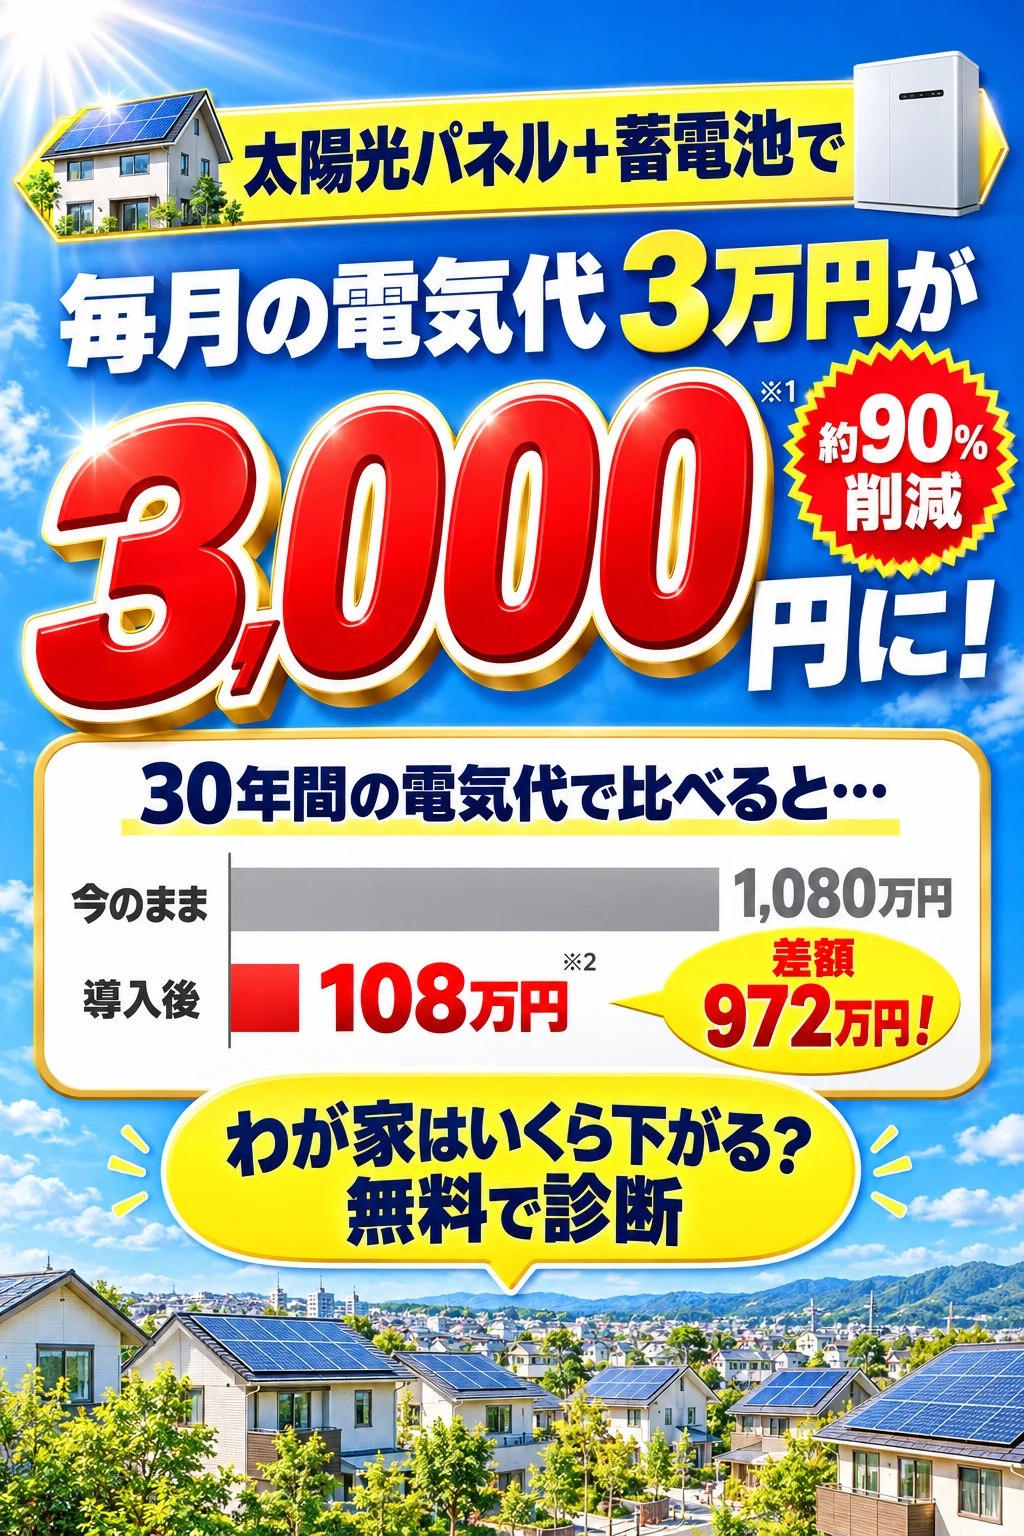
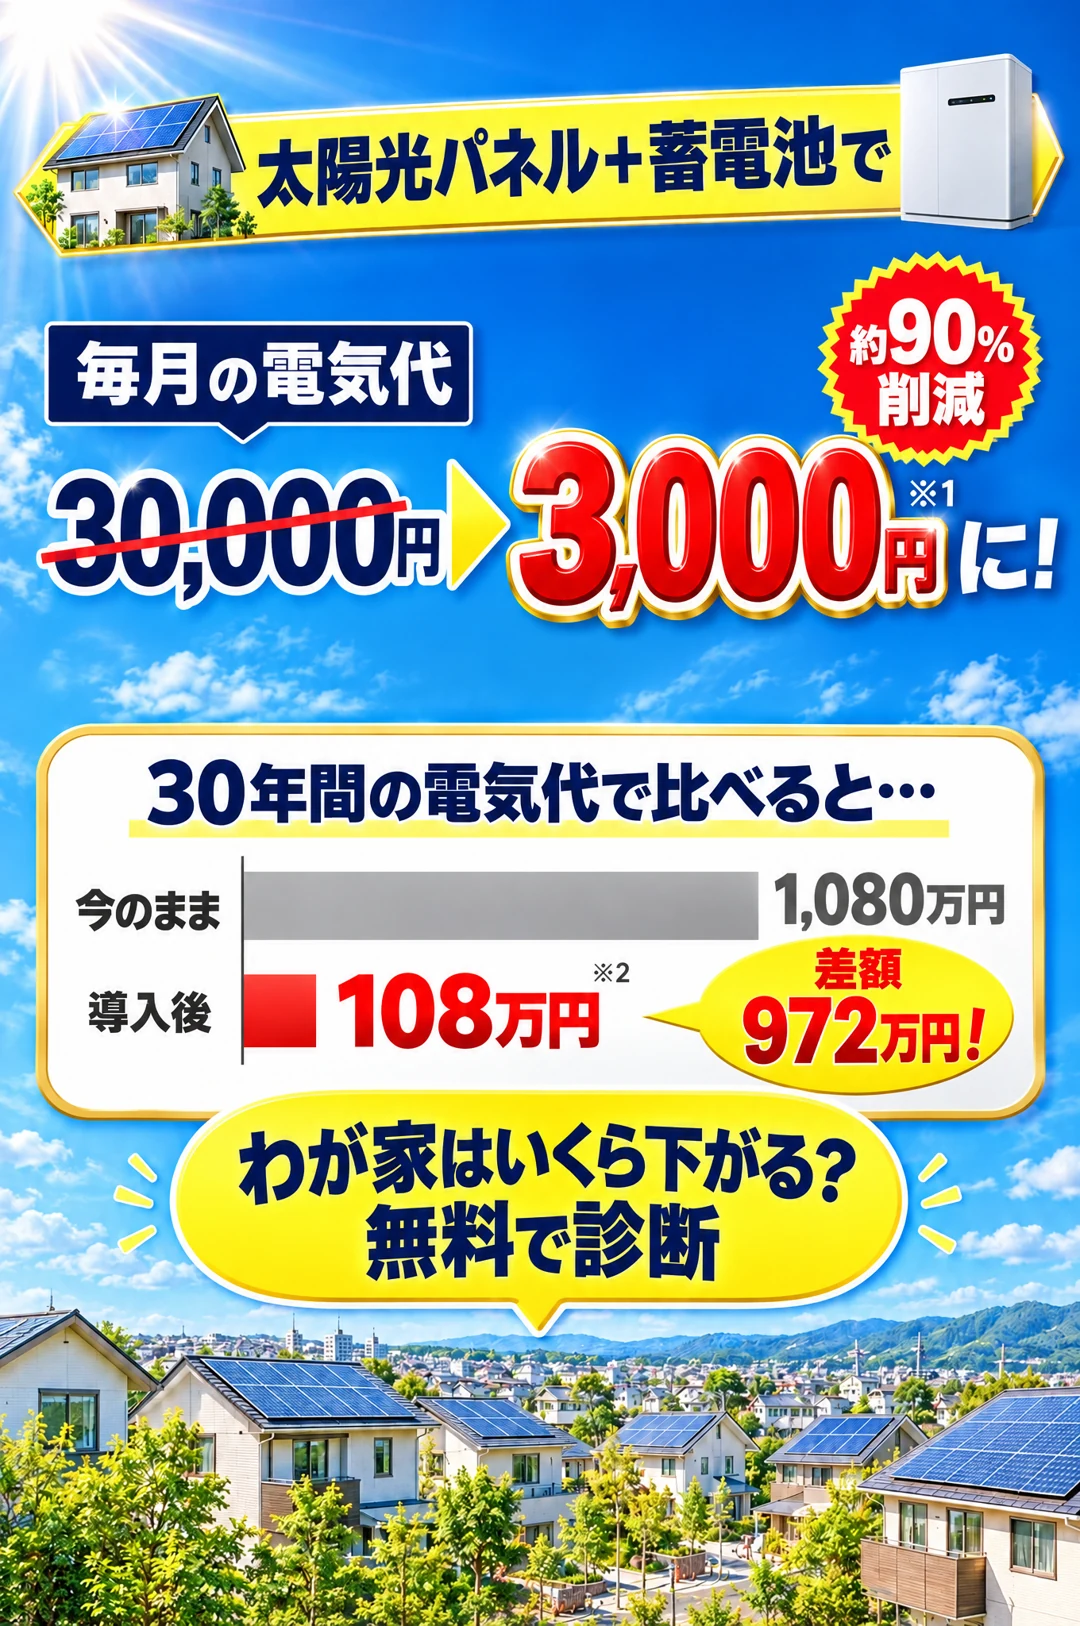
Add files via upload

diff --git a/index.html b/index.html
@@ -414,7 +414,7 @@ footer{background:var(--navy);color:#cfdcef;text-align:center;font-size:12.5px;p
 <header class="hd"><img src="logo.png" alt="みんなの住まい.com"><a href="#form">無料診断<br>はこちら</a></header>
 
 <!-- FV -->
-<div class="fv-img"><img src="fv_sp.webp" width="1024" height="1536" fetchpriority="high" alt="太陽光パネル＋蓄電池で、毎月の電気代3万円が3,000円に。約90%削減。30年間の電気代は1,080万円が108万円に"></div>
+<div class="fv-img"><img src="fv_sp.webp" width="1080" height="1626" fetchpriority="high" alt="太陽光パネル＋蓄電池で、毎月の電気代30,000円が3,000円に。約90%削減。30年間の電気代は1,080万円が108万円に"></div>
 <p class="fv-notes">※1 当社試算のモデルケース（月の電気代3万円のご家庭で約90%削減した場合）。削減額はお住まい・ご契約プラン・機器・使い方により異なります。<br>※2 月額を30年間同じとした単純計算（3万円×12か月×30年／3,000円×12か月×30年）。電気料金の値上がり・機器費用は含みません。</p>
 
 
@@ -427,7 +427,7 @@ footer{background:var(--navy);color:#cfdcef;text-align:center;font-size:12.5px;p
   <p class="note cta-note">※ギフトの進呈条件はフォーム下をご確認ください</p>
 </div>
 
-<img class="sx" src="I01.webp" alt="導入したご家庭の電気代。埼玉県S様24,800円→6,200円（約75%削減）、宮城県K様31,500円→7,900円（約75%削減）、千葉県T様19,200円→5,600円（約71%削減）、福島県M様22,100円→9,800円（約56%削減）" loading="lazy" decoding="async">
+<img class="sx" src="I01.webp" alt="導入したご家庭の電気代。埼玉県S様24,800円→2,500円（約90%削減）、宮城県K様31,500円→3,100円（約90%削減）、千葉県T様19,200円→2,100円（約89%削減）、福島県M様22,100円→2,400円（約89%削減）" loading="lazy" decoding="async">
 <div class="blk"><p class="note"><span class="kari">※実例の数値・お名前は仮です（実データに差し替え）。</span>導入前後の同じ月の請求額で比較。ご契約プラン・機器・使い方で異なります。</p></div>
 
 <div id="ch2" style="height:20px"></div>
@@ -523,14 +523,14 @@ footer{background:var(--navy);color:#cfdcef;text-align:center;font-size:12.5px;p
 <section class="sec bg-white">
   <div class="wrap">
     <div class="hgroup"><span class="kicker">当社で導入した</span><h2 class="h2">お客様の声</h2></div>
-    <div class="voice"><div class="top"><div class="av"><svg class="ico"><use href="#i-user"/></svg></div><div><p class="meta kari">埼玉県にお住まい</p><p class="h kari">補助金を使って、電気代が7割下がりました</p></div></div>
-      <div class="ba"><span class="b kari">24,800円</span><i>▶</i><span class="a kari">6,200円</span></div>
+    <div class="voice"><div class="top"><div class="av"><svg class="ico"><use href="#i-user"/></svg></div><div><p class="meta kari">埼玉県にお住まい</p><p class="h kari">補助金を使って、電気代が約9割下がりました</p></div></div>
+      <div class="ba"><span class="b kari">24,800円</span><i>▶</i><span class="a kari">2,500円</span></div>
       <p class="c kari">【決め手・工事の印象・導入後の変化をご本人の言葉で】</p><p class="kansou">※個人の感想です</p></div>
     <div class="voice"><div class="top"><div class="av"><svg class="ico"><use href="#i-user"/></svg></div><div><p class="meta kari">宮城県にお住まい</p><p class="h kari">停電の夜も、冷蔵庫と照明が使えて安心でした</p></div></div>
-      <div class="ba"><span class="b kari">31,500円</span><i>▶</i><span class="a kari">7,900円</span></div>
+      <div class="ba"><span class="b kari">31,500円</span><i>▶</i><span class="a kari">3,100円</span></div>
       <p class="c kari">【決め手・工事の印象・導入後の変化をご本人の言葉で】</p><p class="kansou">※個人の感想です</p></div>
     <div class="voice"><div class="top"><div class="av"><svg class="ico"><use href="#i-user"/></svg></div><div><p class="meta kari">千葉県にお住まい</p><p class="h kari">他社の見積もりを確認してもらい、納得して決められました</p></div></div>
-      <div class="ba"><span class="b kari">19,200円</span><i>▶</i><span class="a kari">5,600円</span></div>
+      <div class="ba"><span class="b kari">19,200円</span><i>▶</i><span class="a kari">2,100円</span></div>
       <p class="c kari">【決め手・工事の印象・導入後の変化をご本人の言葉で】</p><p class="kansou">※個人の感想です</p></div>
     <p class="note" style="margin-top:10px">※個人の感想です。ご契約プランや機器によって異なり、効果を保証するものではありません</p>
   </div>
